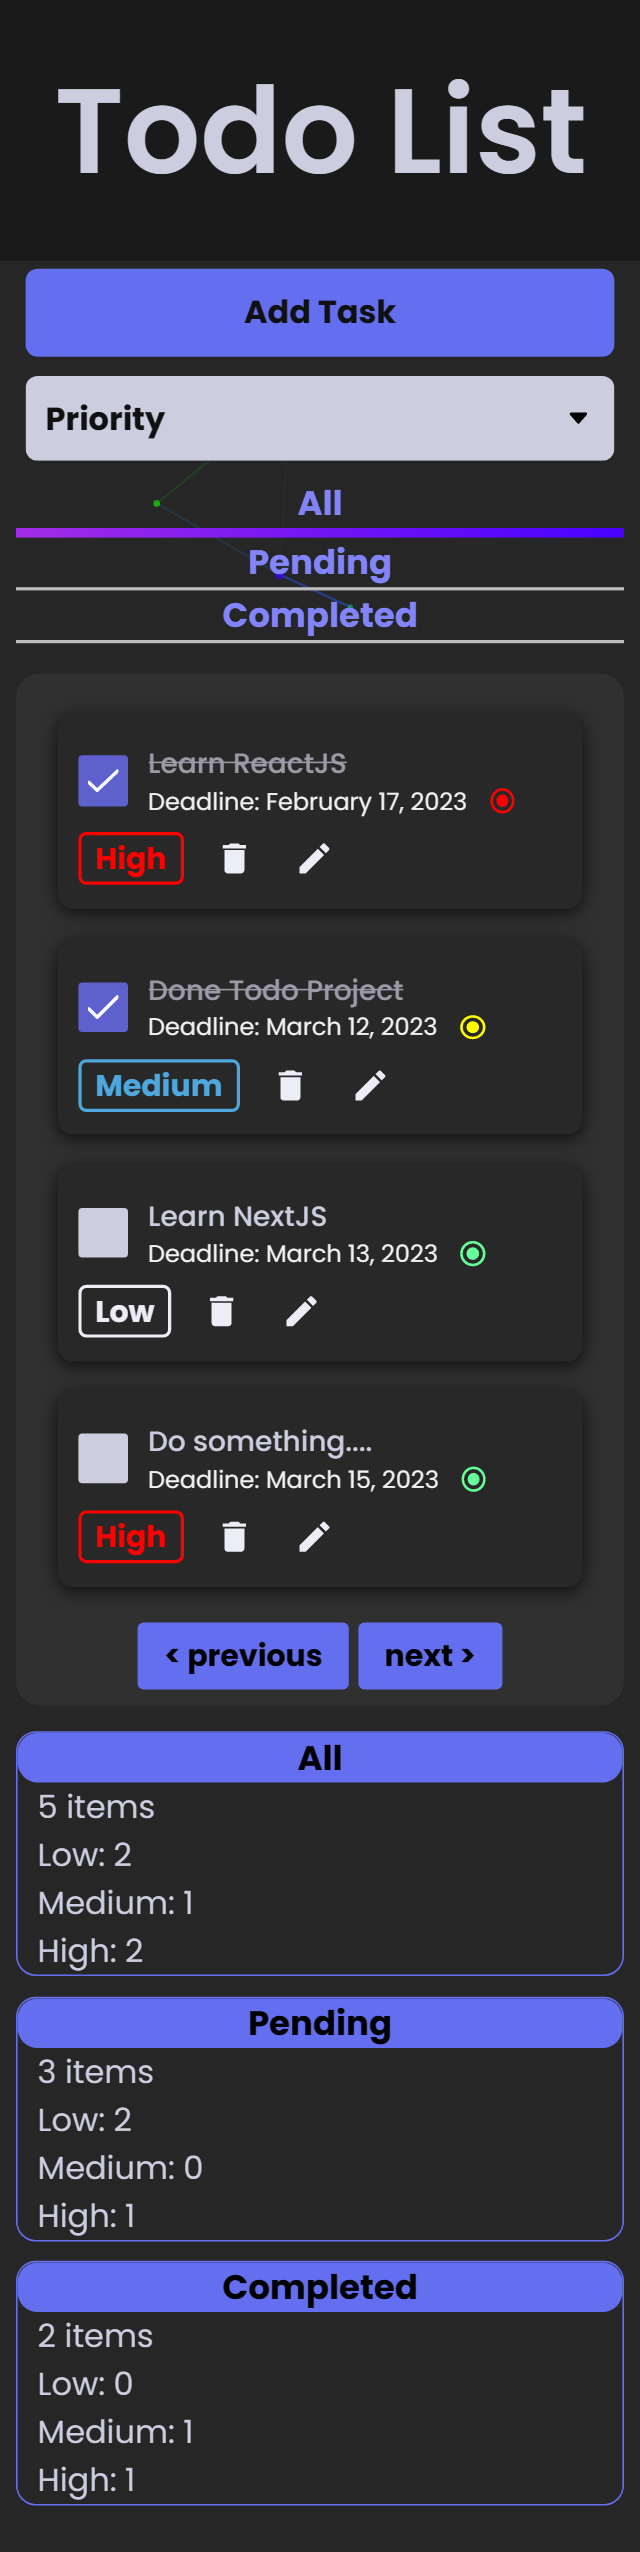
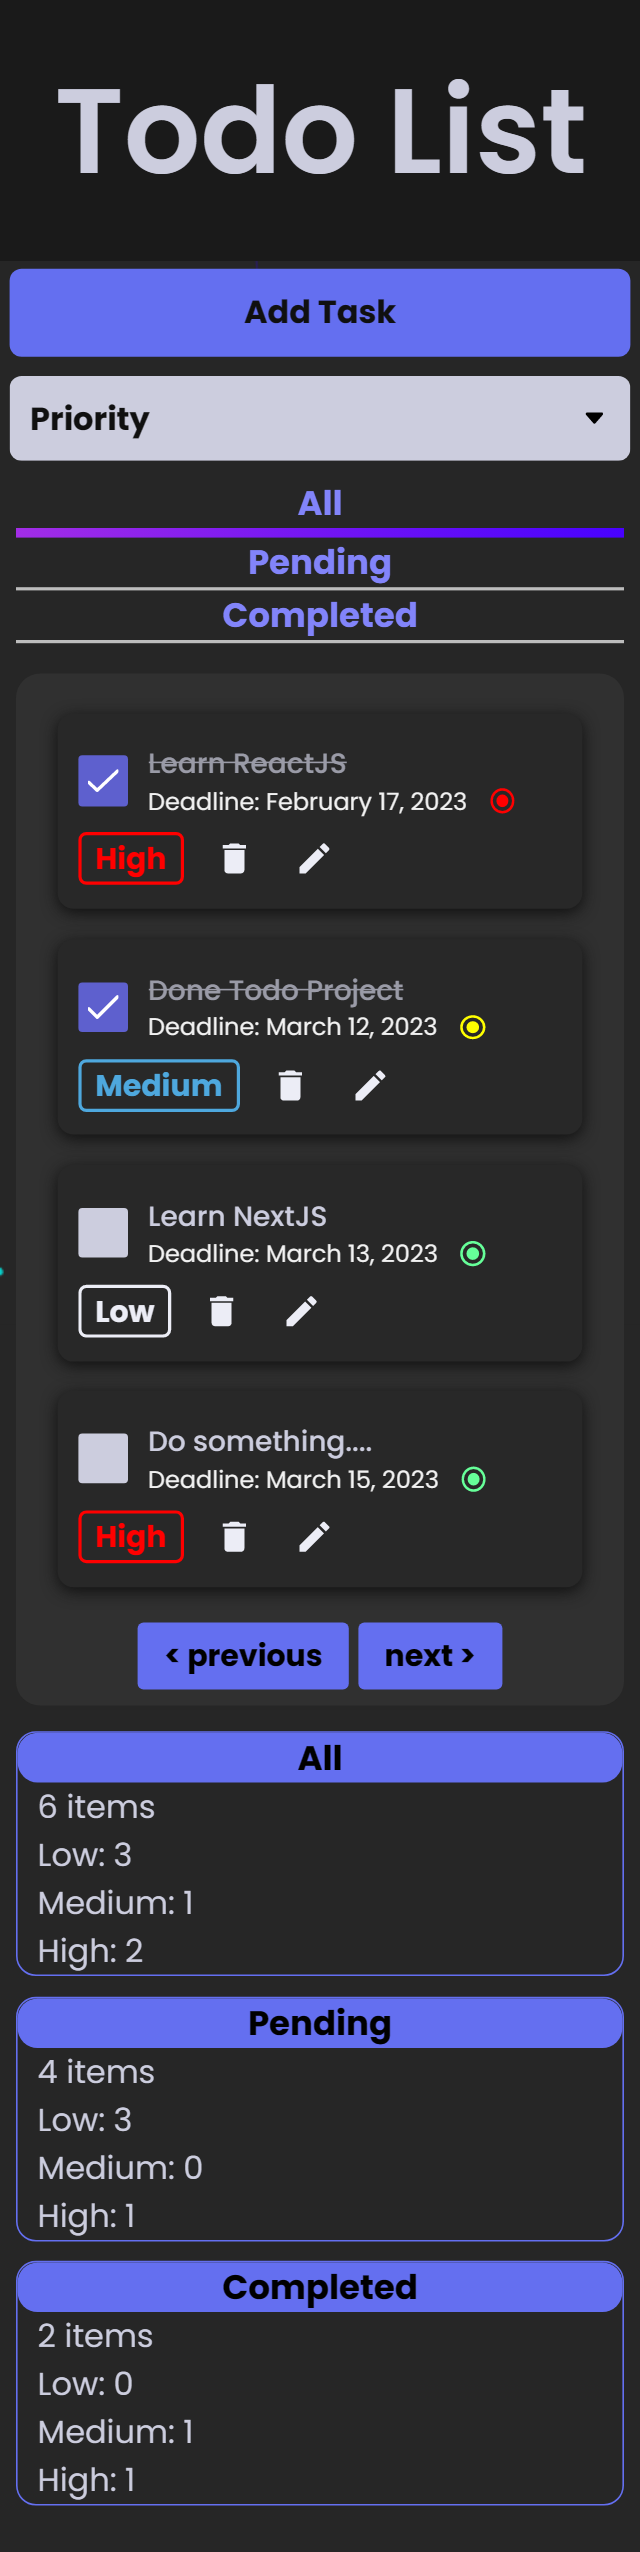
Update & Fix UI

diff --git a/src/layouts/Header/Header.module.scss b/src/layouts/Header/Header.module.scss
@@ -23,7 +23,7 @@
       margin: 5px;
       button[id="add_todo"],
       select[id="filter_priority"] {
-        width: 95%;
+        width: 100%;
       }
     }
   }

diff --git a/README.md b/README.md
@@ -12,10 +12,10 @@ The simple todo app is built with these key components::</p>
 
 <h2>Project Screenshots:</h2>
 <h3>Desktop:</h3>
-<img src="https://i.ibb.co/SrPtbwj/banner-desktop.png" width="500" height ="500" alt="project-screenshot">
+<img src="https://i.ibb.co/g7HmMpc/banner-desktop.png" width="500" height ="600" alt="project-screenshot">
 
 <h3>Mobile:</h3>
-<img src="https://i.ibb.co/khdVQ9s/banner-mobile.png" width="250" height="800" alt="project-screenshot">
+<img src="https://i.ibb.co/2cGH0T5/banner-mobile.png" width="250" height="800" alt="project-screenshot">
 </div>
 
   
